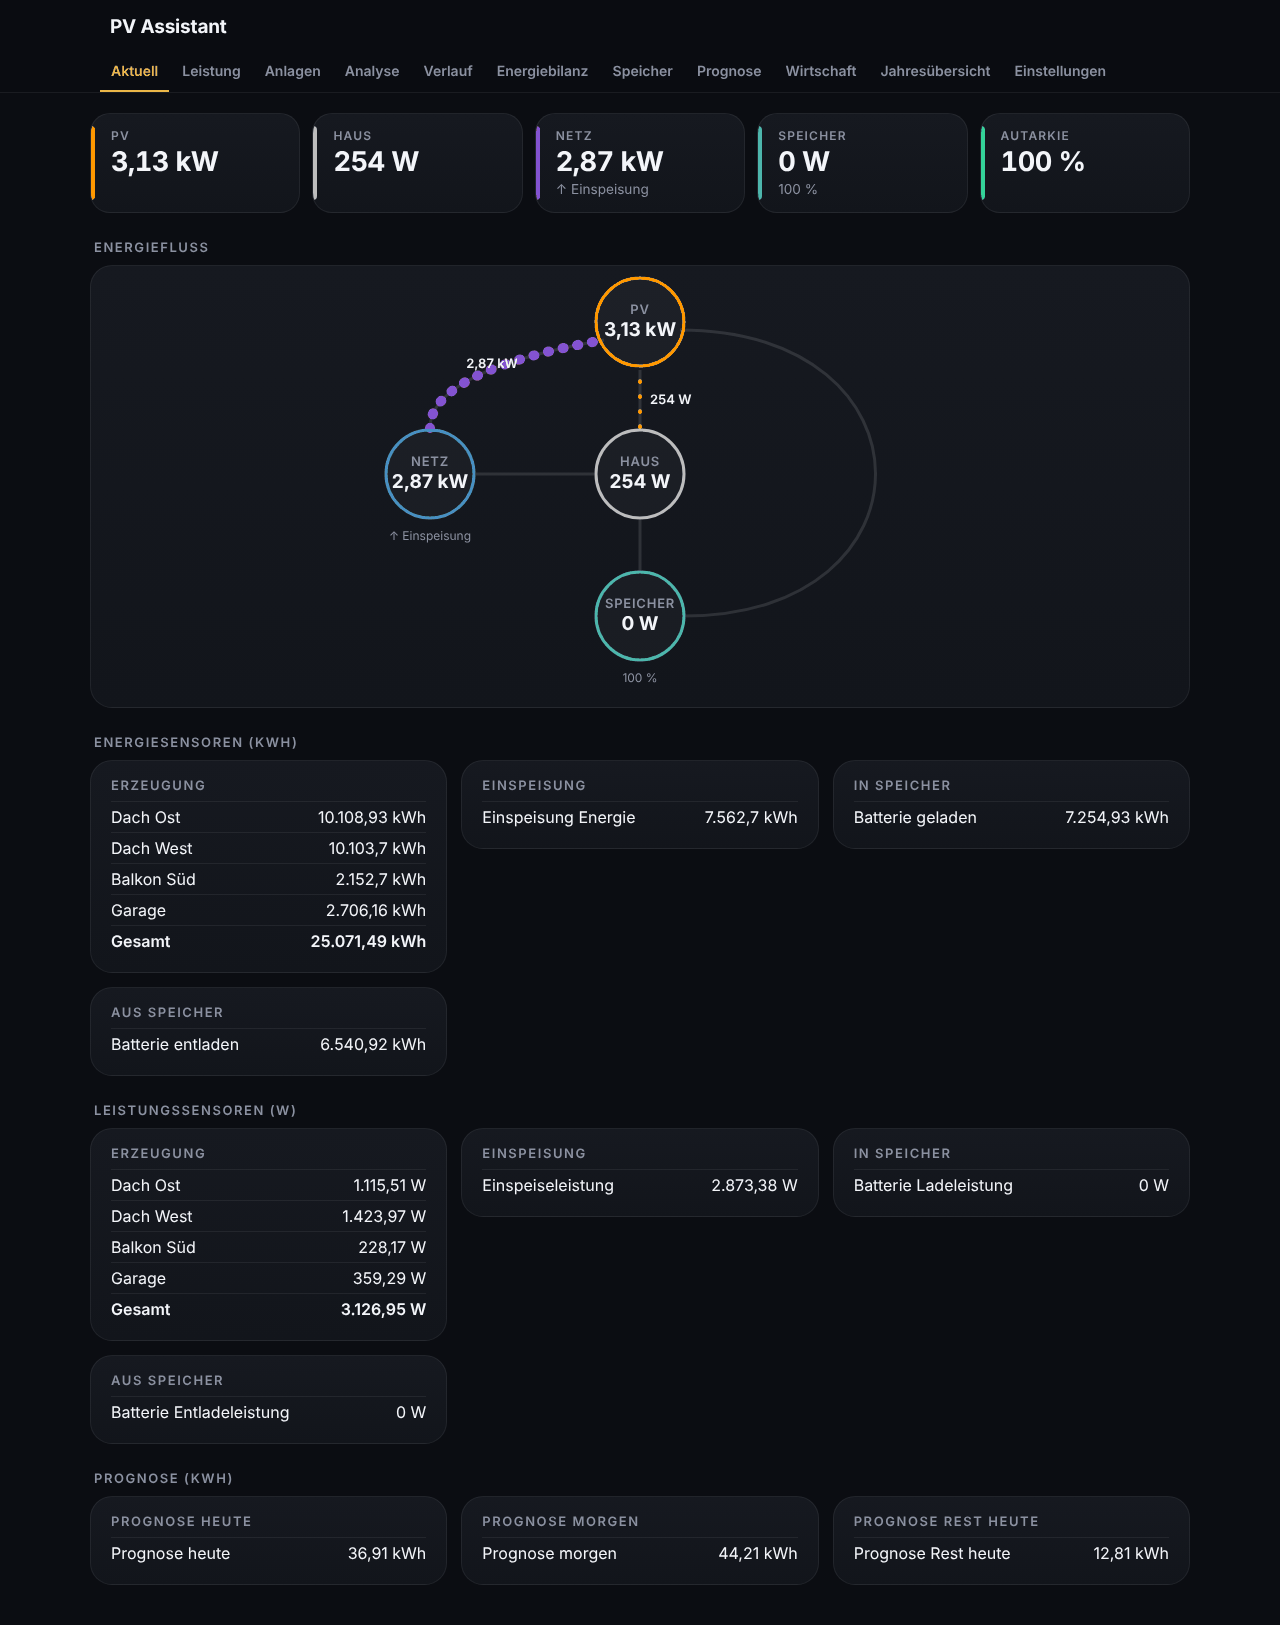
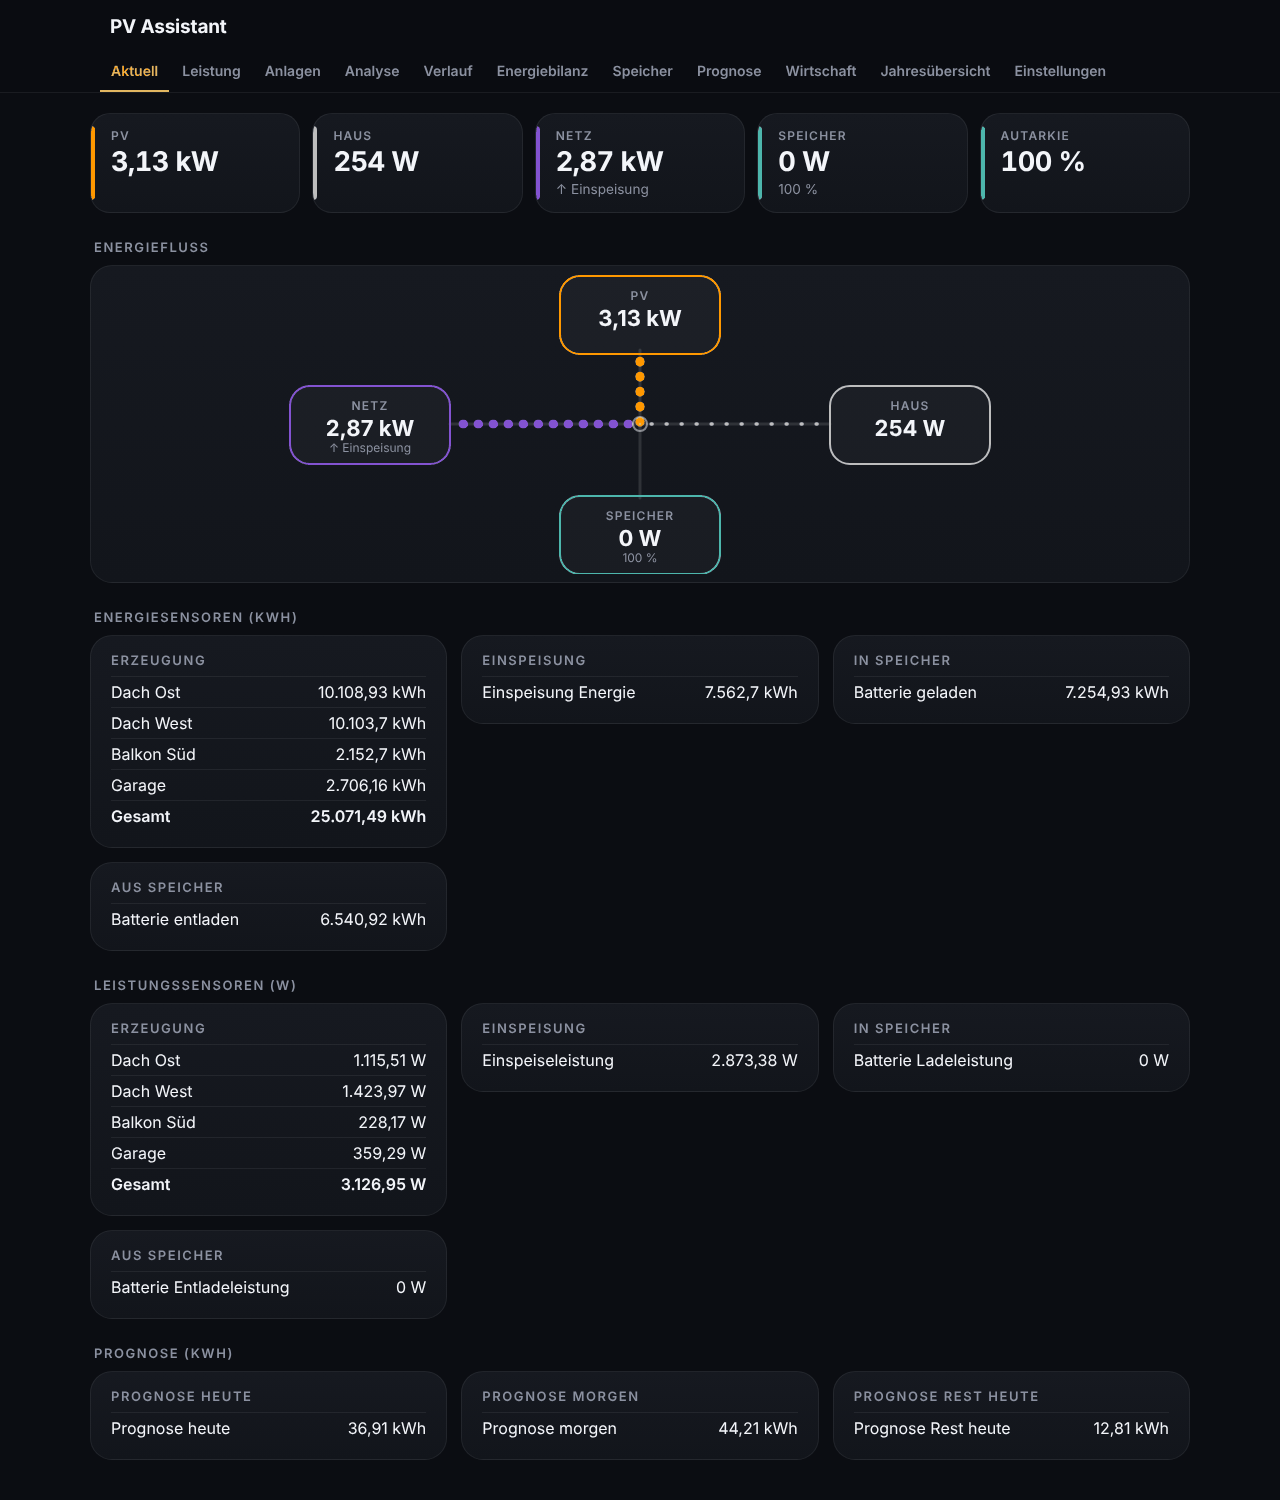
Redesign energy flow diagram: boxes around a central hub with straight animated spokes
Claude-Session: https://claude.ai/code/session_01TaJYM5KB2UjSXtUd6GEyfY

diff --git a/custom_components/pv_assistant/frontend/pv-assistant-panel.js b/custom_components/pv_assistant/frontend/pv-assistant-panel.js
@@ -515,17 +515,17 @@ class PVAssistantPanel extends HTMLElement {
           .kpi b { display:block; font-size:1.7em; font-weight:700; letter-spacing:-.02em; font-variant-numeric:tabular-nums; margin-top:2px; }
           .kpi small { color:var(--g-muted); font-size:.85em; }
           .flowcard { padding:8px 12px; }
-          svg.flow { display:block; width:100%; max-width:640px; margin:0 auto; color:var(--g-text); }
-          svg.flow .track { fill:none; stroke:currentColor; stroke-width:3; opacity:.12; }
+          svg.flow { display:block; width:100%; max-width:720px; margin:0 auto; color:var(--g-text); }
+          svg.flow .track { fill:none; stroke:currentColor; stroke-width:3; opacity:.12; stroke-linecap:round; }
           svg.flow .run { fill:none; stroke-linecap:round; stroke-dasharray:1 14; animation:pvaflow 1.1s linear infinite; }
           @keyframes pvaflow { to { stroke-dashoffset:-15; } }
           @media (prefers-reduced-motion: reduce) { svg.flow .run { animation:none; stroke-dasharray:none; opacity:.8; } }
-          svg.flow .flowring { fill:var(--g-tile); stroke-width:3; }
+          svg.flow .hub { fill:var(--g-tile); stroke:currentColor; stroke-width:2; opacity:.5; }
+          svg.flow .flowbox { fill:var(--g-tile); stroke-width:2; }
           svg.flow text { fill:var(--g-text); font-family:inherit; }
-          svg.flow .flowname { fill:var(--g-muted); font-size:13px; letter-spacing:.06em; text-transform:uppercase; font-weight:600; }
-          svg.flow .flowval { font-size:19px; font-weight:700; }
+          svg.flow .flowname { fill:var(--g-muted); font-size:12px; letter-spacing:.1em; text-transform:uppercase; font-weight:600; }
+          svg.flow .flowval { font-size:22px; font-weight:700; }
           svg.flow .flowsub { fill:var(--g-muted); font-size:12px; }
-          svg.flow .flowlbl { font-size:13px; font-weight:600; }
           .gauge { height:10px; border-radius:6px; background:rgba(127,127,127,.18); overflow:hidden; margin:10px 0 6px; }
           .gauge i { display:block; height:100%; border-radius:6px; background:var(--pva-prod); box-shadow:0 0 12px color-mix(in srgb, var(--pva-prod) 55%, transparent); }
           .pw-val { font-size:2.4em; font-weight:800; letter-spacing:-.02em; line-height:1.1; }
@@ -755,43 +755,38 @@ class PVAssistantPanel extends HTMLElement {
     if (!this._keys().P.prod.length) { box.replaceChildren(); this._flowBuilt = false; return; }
     const NS = "http://www.w3.org/2000/svg";
     const el = (tag, attrs = {}, text) => { const n = document.createElementNS(NS, tag); for (const [k, v] of Object.entries(attrs)) n.setAttribute(k, v); if (text !== undefined) n.textContent = text; return n; };
+    // four boxes around a central hub; every spoke runs from its source to the hub or from the hub to its destination
+    const HUB = [360, 150];
+    const NODES = {
+      solar: { x: 360, y: 40, name: this._t("flowSolar"), color: "--pva-prod", edge: [360, 76] },
+      grid: { x: 90, y: 150, name: this._t("flowGrid"), color: "--pva-grid", edge: [170, 150] },
+      home: { x: 630, y: 150, name: this._t("flowHome"), color: "--pva-house", edge: [550, 150] },
+      bat: { x: 360, y: 260, name: this._t("flowBattery"), color: "--pva-bout", edge: [360, 224] },
+    };
     if (!this._flowBuilt) {
       this._flowBuilt = true;
       this._flow = {};
       box.innerHTML = `<h2>${esc(this._t("flowTitle"))}</h2>`;
       const card = document.createElement("div");
       card.className = "card flowcard";
-      const svg = el("svg", { viewBox: "0 0 640 425", class: "flow", role: "img", "aria-label": this._t("flowTitle") });
-      // flows: [key, path, color, label position]; every path runs from source to destination
-      const flows = [
-        ["sh", "M320,96 L320,154", "--pva-direct", [330, 130, "start"]],
-        ["gh", "M156,200 L274,200", "--pva-grid", [215, 190, "middle"]],
-        ["bh", "M320,298 L320,246", "--pva-bout", [330, 278, "start"]],
-        ["sg", "M284,66 C170,86 110,116 110,154", "--pva-feed", [172, 94, "middle"]],
-        ["sb", "M360,56 C620,56 620,342 364,342", "--pva-bin", [572, 205, "start"]],
-      ];
-      for (const [key, d, color, [x, y, anchor]] of flows) {
-        svg.append(el("path", { d, class: "track" }));
-        const run = el("path", { d, class: "run", stroke: `var(${color})`, visibility: "hidden" });
-        const label = el("text", { x, y, "text-anchor": anchor, class: "flowlbl" });
-        svg.append(run, label);
-        this._flow[key] = { run, label };
+      const svg = el("svg", { viewBox: "0 0 720 300", class: "flow", role: "img", "aria-label": this._t("flowTitle") });
+      for (const [key, n] of Object.entries(NODES)) {
+        const d = `M${n.edge[0]},${n.edge[1]} L${HUB[0]},${HUB[1]}`;
+        const track = el("path", { d, class: "track" });
+        const run = el("path", { d, class: "run", visibility: "hidden" });
+        svg.append(track, run);
+        this._flow[key] = { track, run };
       }
-      const nodes = [
-        ["solar", 320, 48, "--pva-prod", this._t("flowSolar")],
-        ["home", 320, 200, "--pva-house", this._t("flowHome")],
-        ["grid", 110, 200, "--pva-grid", this._t("flowGrid")],
-        ["bat", 320, 342, "--pva-bout", this._t("flowBattery")],
-      ];
-      for (const [key, x, y, color, name] of nodes) {
+      svg.append(el("circle", { cx: HUB[0], cy: HUB[1], r: 7, class: "hub" }));
+      for (const [key, n] of Object.entries(NODES)) {
         const g = el("g", { class: "flownode" });
-        g.append(el("circle", { cx: x, cy: y, r: 44, stroke: `var(${color})`, class: "flowring" }));
-        g.append(el("text", { x, y: y - 8, "text-anchor": "middle", class: "flowname" }, name));
-        const val = el("text", { x, y: y + 14, "text-anchor": "middle", class: "flowval" });
-        const sub = el("text", { x, y: y + 66, "text-anchor": "middle", class: "flowsub" }); // below the circle: it is longer than the circle is wide
-        g.append(val, sub);
+        const rect = el("rect", { x: n.x - 80, y: n.y - 38, width: 160, height: 78, rx: 20, class: "flowbox", stroke: `var(${n.color})` });
+        const name = el("text", { x: n.x, y: n.y - 14, "text-anchor": "middle", class: "flowname" }, n.name);
+        const val = el("text", { x: n.x, y: n.y + 12, "text-anchor": "middle", class: "flowval" });
+        const sub = el("text", { x: n.x, y: n.y + 28, "text-anchor": "middle", class: "flowsub" });
+        g.append(rect, name, val, sub);
         svg.append(g);
-        this._flow[key] = { g, val, sub };
+        Object.assign(this._flow[key], { g, rect, val, sub });
       }
       card.append(svg);
       box.append(card);
@@ -799,24 +794,34 @@ class PVAssistantPanel extends HTMLElement {
     const v = this._flowValues();
     this._renderKpis(v);
     const fmt = (x) => (x >= 1000 ? `${(x / 1000).toLocaleString(this._hass.locale?.language || this._hass.language, { maximumFractionDigits: 2 })} kW` : `${Math.round(x)} W`);
-    const direct = Math.max(0, Math.min(v.prod, v.prod - v.feed - v.inn));
-    const toBat = Math.min(v.inn, Math.max(0, v.prod - v.feed));
-    const f = { sh: direct, gh: v.imp, bh: v.out, sg: v.feed, sb: toBat };
-    const max = Math.max(1, ...Object.values(f));
-    for (const [key, value] of Object.entries(f)) {
-      const { run, label } = this._flow[key];
-      const on = value >= 5 && (key === "sg" || key === "gh" ? v.hasGrid : key === "sb" || key === "bh" ? v.hasBat : true);
-      run.setAttribute("visibility", on ? "visible" : "hidden");
-      run.setAttribute("stroke-width", (3 + 7 * Math.min(1, value / max)).toFixed(1));
-      label.textContent = on ? fmt(value) : "";
+    const grid = Math.max(v.imp, v.feed), bat = Math.max(v.out, v.inn);
+    const feeding = v.feed > v.imp, charging = v.inn > v.out;
+    // [value, flows into the hub, color]
+    const spokes = {
+      solar: [v.prod, true, "--pva-prod"],
+      grid: [grid, !feeding, feeding ? "--pva-feed" : "--pva-grid"],
+      home: [v.house, false, "--pva-house"],
+      bat: [bat, !charging, charging ? "--pva-bin" : "--pva-bout"],
+    };
+    const max = Math.max(1, ...Object.values(spokes).map((s) => s[0]));
+    for (const [key, [value, intoHub, color]] of Object.entries(spokes)) {
+      const f = this._flow[key], n = NODES[key];
+      const shown = key === "grid" ? v.hasGrid : key === "bat" ? v.hasBat : true;
+      f.g.style.display = shown ? "" : "none";
+      f.track.style.display = shown ? "" : "none";
+      const on = shown && value >= 5;
+      const [ex, ey] = n.edge;
+      f.run.setAttribute("d", intoHub ? `M${ex},${ey} L${HUB[0]},${HUB[1]}` : `M${HUB[0]},${HUB[1]} L${ex},${ey}`);
+      f.run.setAttribute("stroke", `var(${color})`);
+      f.run.setAttribute("stroke-width", (3 + 6 * Math.min(1, value / max)).toFixed(1));
+      f.run.setAttribute("visibility", on ? "visible" : "hidden");
+      f.rect.setAttribute("stroke", `var(${color})`);
     }
     const set = (key, val, sub = "") => { this._flow[key].val.textContent = val; this._flow[key].sub.textContent = sub; };
     set("solar", fmt(v.prod));
     set("home", fmt(v.house));
-    this._flow.grid.g.style.display = v.hasGrid ? "" : "none";
-    this._flow.bat.g.style.display = v.hasBat ? "" : "none";
-    if (v.hasGrid) set("grid", fmt(Math.max(v.imp, v.feed)), v.feed > v.imp ? `↑ ${this._t("feed")}` : v.imp > 0 ? `↓ ${this._t("gridImp")}` : "");
-    if (v.hasBat) set("bat", fmt(Math.max(v.out, v.inn)), [v.inn > v.out ? `↓ ${this._t("sin")}` : v.out > 0 ? `↑ ${this._t("sout")}` : "", v.soc != null ? `${Math.round(v.soc)} %` : ""].filter(Boolean).join(" · "));
+    if (v.hasGrid) set("grid", fmt(grid), feeding ? `↑ ${this._t("feed")}` : v.imp > 0 ? `↓ ${this._t("gridImp")}` : "");
+    if (v.hasBat) set("bat", fmt(bat), [charging ? `↓ ${this._t("sin")}` : v.out > 0 ? `↑ ${this._t("sout")}` : "", v.soc != null ? `${Math.round(v.soc)} %` : ""].filter(Boolean).join(" · "));
   }
 
   _renderKpis(v) {
